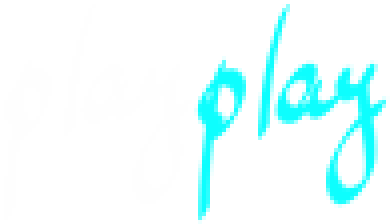
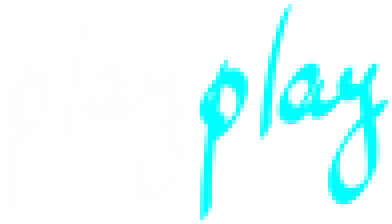
shift bug fix

Changed region(s): [[0.4898, 0.0312, 1.0, 1.0]]

diff --git a/js/gameInit.js b/js/gameInit.js
@@ -21,7 +21,7 @@ $(document).ready(function() {
     playerR: [1, 0],
   });
 
-  Crafty.sprite(192, 224, "images/playButton.png", {
+  Crafty.sprite(196, 224, "images/playButton.png", {
     playButton1: [0, 0],
     playButton2: [1, 0],
   });
